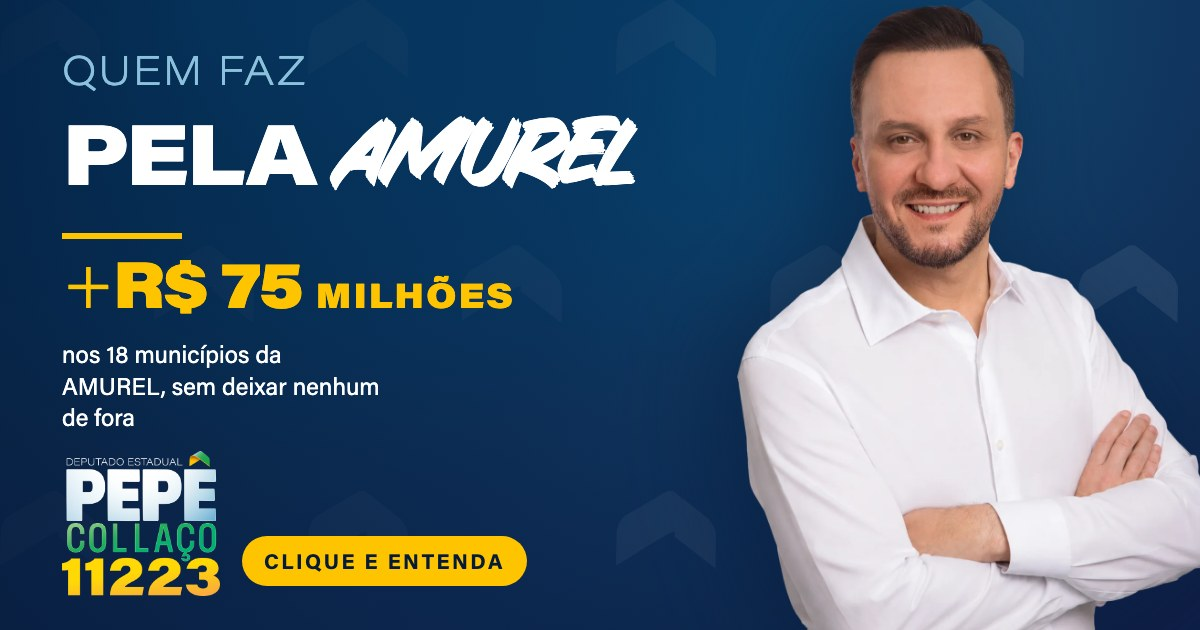
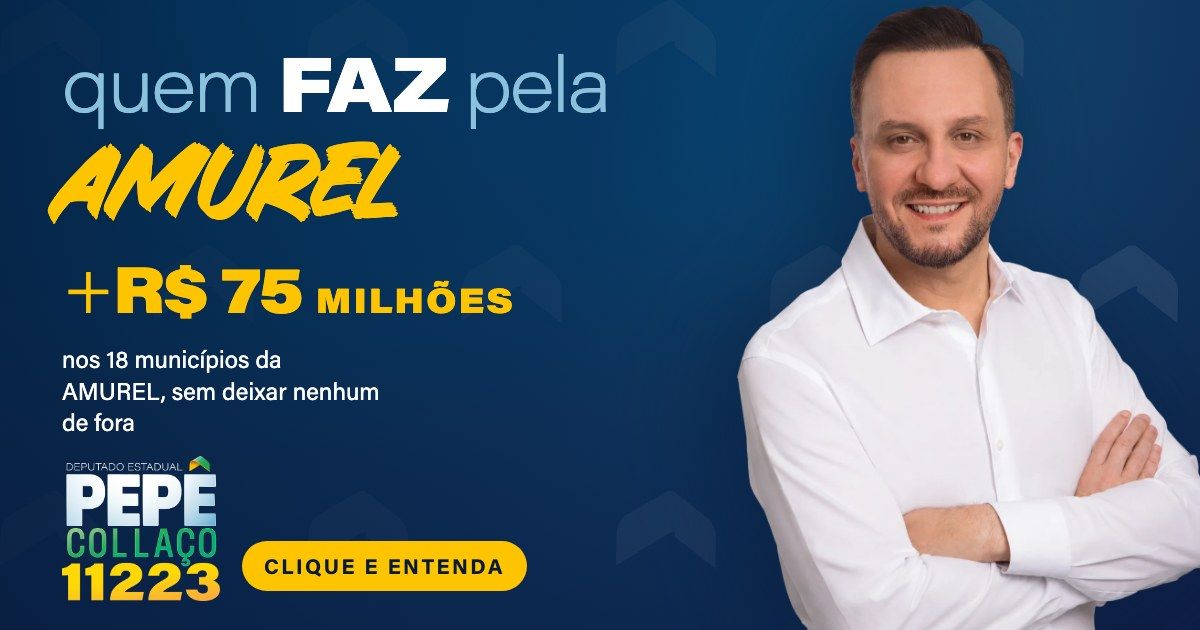
Monta o título no lockup de três degraus da assinatura
O título das páginas QUEM FAZ passa a ter a mesma construção do
QUEM FAZ REPRESENTA da Federação: "quem" e a preposição na Extra Light,
"FAZ" na Black, e o assunto embaixo, sozinho na linha, em pincel
amarelo. Antes eram dois degraus só, "Quem faz" fino sobre o assunto em
Wide Black, e faltava justamente o terceiro, que é o que faz a peça
parecer da campanha e não de um site qualquer.

A caixa passa a vir do HTML e não do CSS: cada degrau tem a sua, e é a
diferença de caixa somada à de peso que constrói a hierarquia. Por isso
o h1 perdeu o text-transform, e só o pincel força caixa alta, porque o
recorte publicado da Granesta não traz caixa baixa.

Mesmo lockup na OG, onde o "Quem faz" deixa de ser uma sobrancelha
separada e entra na primeira linha. A régua amarela saiu de lá: com a
palavra em pincel amarela logo acima, ela repetia o mesmo acento a dois
centímetros de distância.

O guia passa a admitir duas palavras em pincel por página, e não uma,
desde que em blocos distantes: o assunto do título e a palavra final do
lema, a abertura e o fecho.

Changed region(s): [[0.0308, 0.0905, 0.555, 0.5127], [0.0308, 0.7238, 0.4625, 0.9651], [0.0308, 0.5429, 0.3392, 0.6937]]

diff --git a/quem-faz/og/template.html b/quem-faz/og/template.html
@@ -70,29 +70,26 @@
      sumir e come o rodapé por baixo. Melhor estourar visível do que sumir. */
   .conteudo > * { flex: none; }
 
-  /* Não é mais uma sobrancelha: é a primeira linha do título, na Extra
-     Light. A miniatura do WhatsApp precisa da frase inteira, "Quem faz por
-     Tubarão", e não de um rótulo pequeno em cima de outra coisa. O amarelo
-     da identidade fica com a régua, logo abaixo do título. */
-  .olho {
-    font-family: var(--fonte-display);
-    font-weight: var(--peso-display-leve); font-size: 40px;
-    letter-spacing: .05em; text-transform: uppercase;
-    line-height: 1;
-    color: var(--pp-azul-claro);
-  }
+  /* O título é o lockup da assinatura em três degraus, igual ao das páginas
+     e igual a QUEM FAZ REPRESENTA: "quem" e a preposição na Extra Light,
+     "FAZ" na Black, e o assunto embaixo, em pincel amarelo. A caixa vem do
+     HTML, cada degrau tem a sua. */
+  h1 .leve  { font-weight: var(--peso-display-leve); color: var(--pp-azul-claro); }
+  h1 .forte { font-weight: var(--peso-display-forte); }
 
   /* Wide Black: é a largura do lockup, e numa miniatura de WhatsApp a massa
      da Black é o que ainda se lê a 300 px de largura. A expandida ocupa cerca
      de um quinto a mais, então o teto do ajuste automático desceu junto. */
   h1 {
-    margin: 18px 0 0;
+    margin: 0;
     font-family: var(--fonte-display);
-    font-weight: var(--peso-display-forte); text-transform: uppercase;
-    font-size: 84px; line-height: .88; letter-spacing: -.03em;
+    font-weight: var(--peso-display-forte); text-transform: none;
+    font-size: 76px; line-height: 1; letter-spacing: -.03em;
   }
 
-  .regua { width: 120px; height: 6px; background: var(--cor-acento); margin: 30px 0 24px; }
+  /* a régua saiu: com a palavra em pincel amarela logo acima, ela repetia o
+     mesmo acento a dois centímetros de distância */
+  .vao { height: 34px; }
 
   .numero {
     font-family: var(--fonte-display);
@@ -111,11 +108,19 @@
      Fica branca, e não amarela: no quadro já são amarelos a régua e o número,
      e um terceiro amarelo tira o número do lugar de destaque. Aqui quem
      destaca é o traço, não a cor. */
+  /* O degrau que grita: sozinho na linha, maior que a de cima, e amarelo,
+     que é a cor que a assinatura reserva para a palavra à mão. Na miniatura
+     do WhatsApp é esta palavra que a pessoa lê. */
   .pincel {
+    display: block;
+    margin-top: .04em;
     font-family: var(--fonte-brush);
     font-weight: 400;
-    font-size: 1.1em;
-    padding-inline: .1em .06em;
+    font-size: 1.34em;
+    line-height: .96;
+    letter-spacing: 0;
+    text-transform: uppercase;
+    color: var(--cor-acento);
   }
 
   .legenda {
@@ -147,9 +152,8 @@
   <div class="quadro">
     <img class="retrato" id="retrato" src="../../assets/brand/foto/pepe-busto-1400.webp" alt="" />
     <div class="conteudo">
-      <div class="olho">Quem faz</div>
-      <h1><span id="titulo">POR</span> <span class="pincel" id="destaque">TUBARÃO</span></h1>
-      <div class="regua"></div>
+      <h1><span class="leve">quem</span> <span class="forte">FAZ</span> <span class="leve" id="titulo">por</span><span class="pincel" id="destaque">Tubarão</span></h1>
+      <div class="vao"></div>
       <div class="numero"><span id="numero">R$ 18,2</span><span class="un" id="unidade">MILHÕES</span></div>
       <div class="legenda" id="legenda">destinados à cidade em três anos de mandato</div>
       <div class="rodape">
@@ -191,7 +195,7 @@
   const caixa = document.querySelector('.conteudo');
   const coube = () => caixa.scrollHeight <= caixa.clientHeight;
   document.fonts.ready.then(() => {
-    for (let px = 84; px >= 44 && !coube(); px -= 2) {
+    for (let px = 76; px >= 40 && !coube(); px -= 2) {
       t.style.fontSize = px + 'px';
     }
     document.documentElement.dataset.pronto = '1';

diff --git a/quem-faz/quem-faz.css b/quem-faz/quem-faz.css
@@ -109,16 +109,37 @@ h1, h2 {
   text-transform: uppercase;
   letter-spacing: -.015em;
 }
+
+/* O h1 é o lockup da assinatura em três degraus, igual a QUEM FAZ
+   REPRESENTA: "quem" e a preposição na Extra Light, "FAZ" na Black, e o
+   assunto embaixo, em pincel amarelo, sozinho na linha.
+
+   A caixa vem do HTML e não do CSS: cada degrau tem a sua, e é a diferença
+   de caixa junto com a de peso que constrói a hierarquia. Só o pincel é
+   forçado para caixa alta, porque o recorte publicado da Granesta não tem
+   caixa baixa. */
+h1 { text-transform: none; }
+h1 .leve  { font-weight: var(--peso-display-leve); color: var(--cor-texto-suave); }
+h1 .forte { font-weight: var(--peso-display-forte); }
 /* O h1 diz a frase inteira: "Quem faz" na Extra Light, o assunto na Black.
    O corpo desceu de 78 para 62px porque agora são duas linhas de display,
    e nesse tamanho o assunto mais comprido ("Pelas cidades") ainda cabe em
    uma linha só, tanto no computador quanto no celular. */
-h1 { font-size: clamp(32px, 7.2vw, 62px); line-height: .95; }
-h1 .leve {
+h1 { font-size: clamp(30px, 6.6vw, 56px); line-height: 1; }
+
+/* O assunto, o degrau que grita. Corpo maior que a linha de cima porque é
+   ele que a pessoa lê de relance no meio do feed, e amarelo porque é a cor
+   que a assinatura reserva para a palavra à mão. */
+h1 .pincel {
   display: block;
-  font-weight: var(--peso-display-leve);
-  letter-spacing: .01em;
-  color: var(--cor-texto-suave);
+  margin-top: .04em;
+  font-family: var(--fonte-brush);
+  font-weight: 400;
+  font-size: 1.38em;
+  line-height: .96;
+  letter-spacing: 0;
+  text-transform: uppercase;
+  color: var(--cor-acento);
 }
 h2 { font-size: clamp(24px, 5.2vw, 38px); line-height: 1; }
 h3 {

diff --git a/quem-faz/pelas-cidades/index.html b/quem-faz/pelas-cidades/index.html
@@ -48,7 +48,7 @@
   <header class="hero fundo-campanha veu">
     <div class="wrap hero-grade">
       <div>
-        <h1><span class="leve">Quem faz</span> Pelas cidades</h1>
+        <h1><span class="leve">quem</span> <span class="forte">FAZ</span> <span class="leve">pelas</span><span class="pincel">cidades</span></h1>
 
         <p class="hero-frase">
           Deputado estadual representa o Estado inteiro, n&#227;o s&#243; a cidade onde

diff --git a/quem-faz/pela-educacao/index.html b/quem-faz/pela-educacao/index.html
@@ -48,7 +48,7 @@
   <header class="hero fundo-campanha veu">
     <div class="wrap hero-grade">
       <div>
-        <h1><span class="leve">Quem faz</span> Pela educação</h1>
+        <h1><span class="leve">quem</span> <span class="forte">FAZ</span> <span class="leve">pela</span><span class="pincel">educação</span></h1>
 
         <p class="hero-frase">
           Cada vaga de creche é <b>uma mãe que trabalha tranquila e uma criança

diff --git a/quem-faz/por-tubarao/index.html b/quem-faz/por-tubarao/index.html
@@ -48,7 +48,7 @@
   <header class="hero fundo-campanha veu">
     <div class="wrap hero-grade">
       <div>
-        <h1><span class="leve">Quem faz</span> Por Tubarão</h1>
+        <h1><span class="leve">quem</span> <span class="forte">FAZ</span> <span class="leve">por</span><span class="pincel">Tubarão</span></h1>
 
         <p class="hero-frase">
           Tubarão nunca precisou de promessa. Precisou de <b>voz onde as decisões

diff --git a/quem-faz/pelo-autismo/index.html b/quem-faz/pelo-autismo/index.html
@@ -48,7 +48,7 @@
   <header class="hero fundo-campanha veu">
     <div class="wrap hero-grade">
       <div>
-        <h1><span class="leve">Quem faz</span> Pelo autismo</h1>
+        <h1><span class="leve">quem</span> <span class="forte">FAZ</span> <span class="leve">pelo</span><span class="pincel">autismo</span></h1>
 
         <p class="hero-frase">
           Ninguém esquece o dia em que recebe um diagnóstico de autismo. Naquele

diff --git a/quem-faz/pelo-sul/index.html b/quem-faz/pelo-sul/index.html
@@ -48,7 +48,7 @@
   <header class="hero fundo-campanha veu">
     <div class="wrap hero-grade">
       <div>
-        <h1><span class="leve">Quem faz</span> Pelo Sul</h1>
+        <h1><span class="leve">quem</span> <span class="forte">FAZ</span> <span class="leve">pelo</span><span class="pincel">Sul</span></h1>
 
         <p class="hero-frase">
           O Sul não pode continuar refém de um único caminho. Quando o Morro dos

diff --git a/quem-faz/pela-amurel/index.html b/quem-faz/pela-amurel/index.html
@@ -48,7 +48,7 @@
   <header class="hero fundo-campanha veu">
     <div class="wrap hero-grade">
       <div>
-        <h1><span class="leve">Quem faz</span> Pela AMUREL</h1>
+        <h1><span class="leve">quem</span> <span class="forte">FAZ</span> <span class="leve">pela</span><span class="pincel">AMUREL</span></h1>
 
         <p class="hero-frase">
           Os problemas da nossa região nunca respeitaram divisas. Quando a

diff --git a/IDENTIDADE.md b/IDENTIDADE.md
@@ -245,7 +245,7 @@ Papéis separados, e essa separação é a regra que mais muda o resultado.
 |---|---|---|---|
 | `--fonte` | **Acumin Pro** | 400, 700 (+ itálicos) | Texto. Parágrafo, rótulo, botão, campo. |
 | `--fonte-display` | **Acumin Pro Wide** | 275, 400, 900 | Manchete. Palavra grande, número grande. |
-| `--fonte-brush` | **Granesta** | 400 | Acento. UMA palavra por peça, grande. |
+| `--fonte-brush` | **Granesta** | 400 | Acento. Uma palavra por bloco, grande. |
 
 ```css
 font-family: var(--fonte);           /* texto    */
@@ -280,6 +280,16 @@ O lockup PEPÊ COLLAÇO 11223 é outra família, geométrica, e continua sendo.
 **A regra é uma palavra.** A arte mostra isso literalmente: "QUEM FAZ" em letra
 de forma, "REPRESENTA" em pincel. Uma palavra de ênfase, grande, ao lado do
 Acumin, nunca sozinha carregando a peça inteira.
+
+E o lockup inteiro tem três degraus, que é como o título das páginas QUEM FAZ
+está montado: `quem` e a preposição na Extra Light, **FAZ** na Black, e o
+assunto embaixo, sozinho na linha, em pincel amarelo. A caixa vem do HTML,
+porque cada degrau tem a sua, e é a diferença de caixa somada à de peso que
+constrói a hierarquia.
+
+**Duas por página, no máximo, e longe uma da outra.** Nas páginas QUEM FAZ são
+o assunto do título e a palavra final do lema: a abertura e o fecho. Duas
+palavras em pincel dentro do mesmo bloco competem entre si e nenhuma ganha.
 
 Onde **não** entra: texto corrido, rótulo, botão, legenda, corpo pequeno, frase
 inteira. Em corpo pequeno ela não se lê, e frase inteira em pincel vira ruído.
